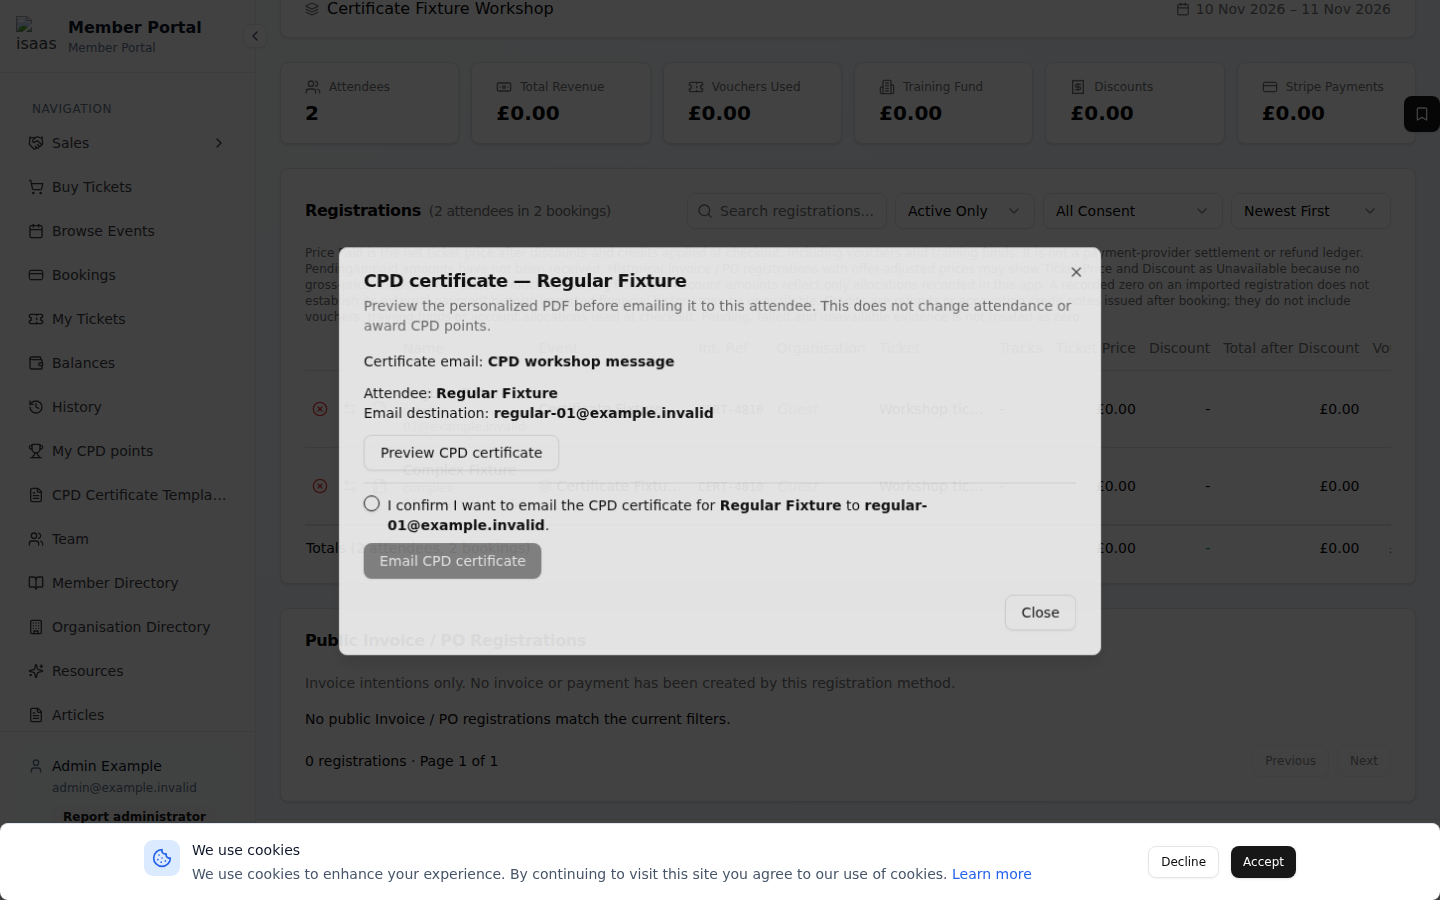
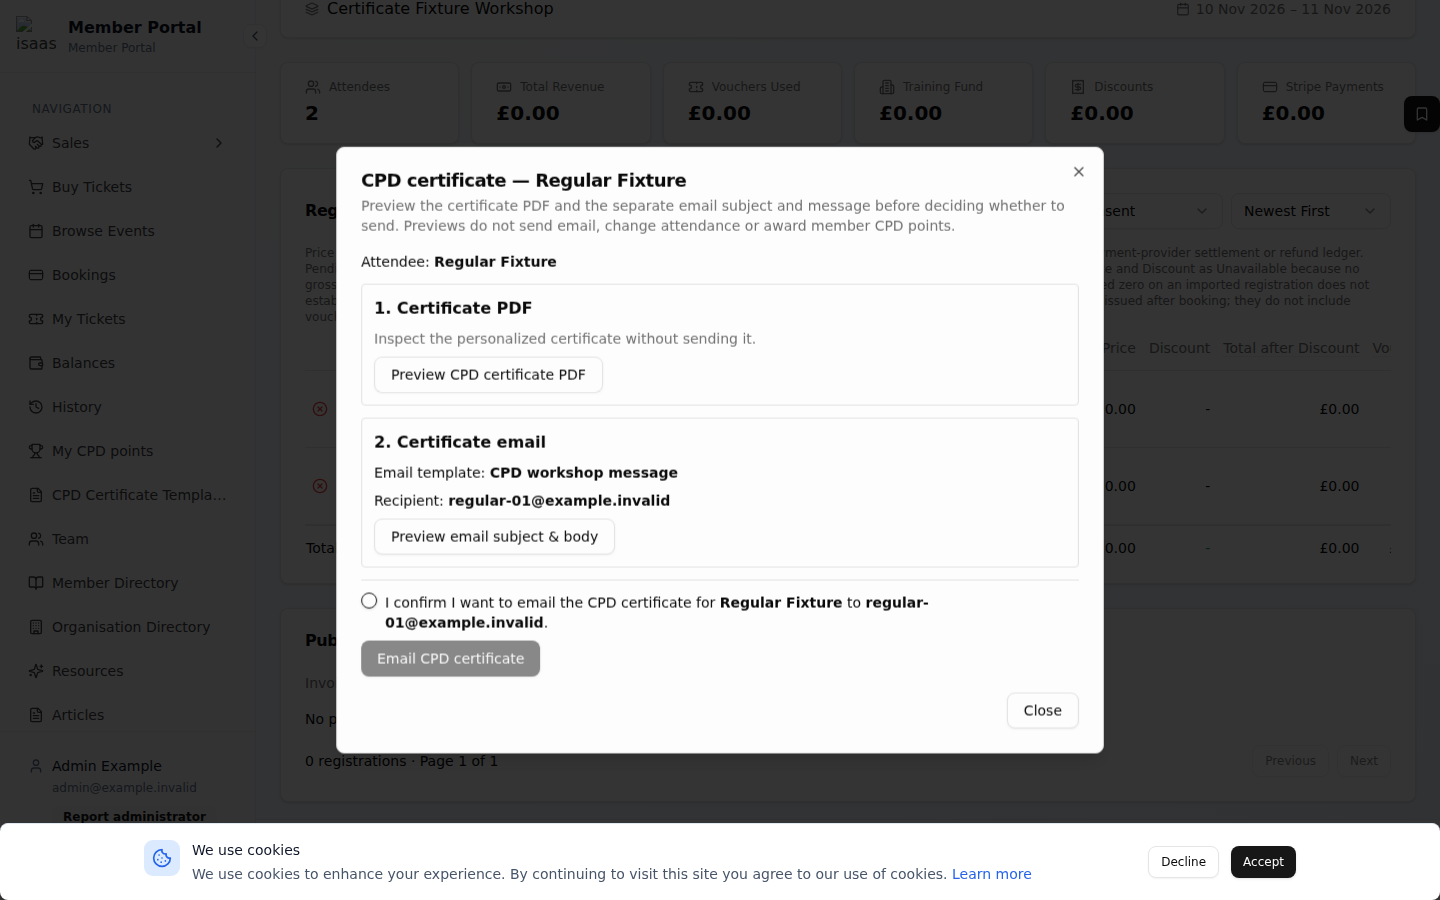
Update attendee CPD certificate generation and UI components
Replit-Commit-Author: Agent

diff --git a/client/src/components/events/AttendeeCpdCertificateDialog.jsx b/client/src/components/events/AttendeeCpdCertificateDialog.jsx
@@ -15,8 +15,8 @@ function describeReason(reason) {
     date_unavailable: "The certificate activity dates are unavailable.",
     cancelled_booking: "Cancelled bookings cannot receive certificates.",
     booking_cancelled: "Cancelled bookings cannot receive certificates.",
-    missing_recipient: "This attendee has no valid email address. Preview is still available.",
-    invalid_recipient: "This attendee has no valid email address. Preview is still available.",
+    missing_recipient: "This attendee has no valid email address. Certificate PDF preview remains available.",
+    invalid_recipient: "This attendee has no valid email address. Certificate PDF preview remains available.",
     email_template_unavailable: "The selected certificate email template is unavailable or deleted. Select an active template or the default email in the event's Certificates settings.",
     email_template_inactive: "The selected certificate email template is inactive. Select an active template or the default email in the event's Certificates settings.",
     email_template_invalid: "The selected certificate email template cannot be used. Update it in Email Templates or select the default email in the event's Certificates settings.",
@@ -257,28 +257,34 @@ export default function AttendeeCpdCertificateDialog({ attendee, bookingSource, 
   const available = metadata?.available === true;
   const canSend = available && metadata?.can_send === true && !!metadata?.fingerprint
     && !["pending", "unknown"].includes(metadata?.latest_delivery?.status);
+  // A pending delivery blocks another send, not inspection of the selected email.
+  const canPreviewEmail = available && metadata?.can_preview_email === true && !!metadata?.fingerprint;
+  const emailPreviewReason = !recipient
+    ? "The attendee has no valid email address. Add a valid address to preview the email."
+    : metadata?.email_reason
+      ? describeReason(metadata.email_reason)
+      : metadata?.send_reason && !["pending", "unknown"].includes(metadata.latest_delivery?.status)
+        ? describeReason(metadata.send_reason)
+        : "The certificate email cannot be previewed with the current settings.";
 
   return (
     <Dialog open={!!attendee} onOpenChange={open => { if (!open && !busy) onClose(); }}>
       <DialogContent className="max-w-3xl max-h-[90vh] overflow-y-auto" data-testid="attendee-certificate-dialog">
         <DialogHeader>
           <DialogTitle>CPD certificate — {name}</DialogTitle>
-          <DialogDescription>Preview or download the personalized PDF before emailing it to this attendee. This does not change attendance or award member CPD points.</DialogDescription>
+          <DialogDescription>Preview the certificate PDF and the separate email subject and message before deciding whether to send. Previews do not send email, change attendance or award member CPD points.</DialogDescription>
         </DialogHeader>
         {loading ? <p role="status" className="flex items-center gap-2"><Loader2 className="h-4 w-4 animate-spin" />Checking certificate settings…</p> : metadata && (
           <div className="space-y-3">
-            <p className="text-sm" data-testid="cpd-email-template-name">
+            {!available && <p className="text-sm" data-testid="cpd-email-template-name">
               Certificate email: <strong>{metadata.email_is_default !== false
                 ? "Default certificate email"
                 : metadata.email_template_name || "Selected template unavailable"}</strong>
-            </p>
-            {metadata.email_selection_missing && <p role="status" className="text-sm text-amber-700">
-              No event-wide certificate email selection is saved. This uses the default email; choose a template in the event Certificates settings and save it before sending.
             </p>}
             {!available && <p role="status" className="text-sm text-amber-700">Preview unavailable: {describeReason(metadata.reason)}</p>}
             {available && (
               <>
-                <p className="text-sm">Attendee: <strong>{name}</strong><br />Email destination: <strong>{recipient || "No valid attendee email"}</strong></p>
+                <p className="text-sm">Attendee: <strong>{name}</strong></p>
                  {metadata.certificate_points_source === "guest_rule" && (
                    <p className="text-sm text-muted-foreground" data-testid="guest-certificate-points">
                      {metadata.certificate_points != null
@@ -287,23 +293,43 @@ export default function AttendeeCpdCertificateDialog({ attendee, bookingSource, 
                      This certificate does not create a member CPD ledger award.
                    </p>
                  )}
-                <Button type="button" variant="outline" disabled={!!busy} onClick={() => action("preview")} data-testid="button-preview-cpd-certificate">
-                  {busy === "preview" && <Loader2 className="h-4 w-4 mr-2 animate-spin" />}Preview CPD certificate
-                </Button>
-                {canSend && <Button type="button" variant="outline" disabled={!!busy} onClick={() => action("email-preview")} data-testid="button-preview-cpd-email">
-                  {busy === "email-preview" && <Loader2 className="h-4 w-4 mr-2 animate-spin" />}Preview certificate email
-                </Button>}
-                {emailPreview && <div className="space-y-2 rounded border p-3" data-testid="cpd-email-preview">
-                  <p className="text-sm"><strong>Subject:</strong> {emailPreview.subject}</p>
-                  <p className="text-sm"><strong>Attachment:</strong> {emailPreview.attachment?.filename} (PDF, {emailPreview.attachment?.bytes} bytes)</p>
-                  <p className="text-xs text-muted-foreground">Survey links are inactive in previews. Sent emails include individual attendee links.</p>
-                  <iframe title="Certificate email HTML preview" sandbox="" referrerPolicy="no-referrer"
-                    srcDoc={emailPreview.html} className="w-full min-h-48 rounded border" />
-                  {emailPreview.text && <details><summary className="text-sm">Plain-text version</summary>
-                    <pre className="whitespace-pre-wrap text-xs">{emailPreview.text}</pre></details>}
-                </div>}
-                {pdfBytes && <CertificatePdfCanvasPreview bytes={pdfBytes} pdfEngine={pdfEngine} />}
-                 {pdfBytes && <Button type="button" variant="outline" disabled={!!busy} onClick={download} data-testid="button-download-cpd-certificate">Download CPD certificate</Button>}
+                <section className="space-y-2 rounded border p-3" aria-label="Certificate PDF preview" data-testid="cpd-certificate-section">
+                  <h3 className="font-semibold">1. Certificate PDF</h3>
+                  <p className="text-sm text-muted-foreground">Inspect the personalized certificate without sending it.</p>
+                  <Button type="button" variant="outline" disabled={!!busy} onClick={() => action("preview")} data-testid="button-preview-cpd-certificate">
+                    {busy === "preview" && <Loader2 className="h-4 w-4 mr-2 animate-spin" />}Preview CPD certificate PDF
+                  </Button>
+                  {pdfBytes && <CertificatePdfCanvasPreview bytes={pdfBytes} pdfEngine={pdfEngine} />}
+                  {pdfBytes && <Button type="button" variant="outline" disabled={!!busy} onClick={download} data-testid="button-download-cpd-certificate">Download CPD certificate</Button>}
+                </section>
+                <section className="space-y-2 rounded border p-3" aria-label="Certificate email preview" data-testid="cpd-email-section">
+                  <h3 className="font-semibold">2. Certificate email</h3>
+                  <p className="text-sm" data-testid="cpd-email-template-name">
+                    Email template: <strong>{metadata.email_is_default !== false
+                      ? "Default certificate email"
+                      : metadata.email_template_name || "Selected template unavailable"}</strong>
+                  </p>
+                  <p className="text-sm">Recipient: <strong>{recipient || "No valid attendee email"}</strong></p>
+                  {metadata.email_selection_missing && <p role="status" className="text-sm text-amber-700">
+                    No event-wide certificate email selection is saved. This uses the default email; choose a template in the event Certificates settings and save it before sending.
+                  </p>}
+                  <Button type="button" variant="outline" disabled={!!busy || !canPreviewEmail}
+                    onClick={() => action("email-preview")} data-testid="button-preview-cpd-email">
+                    {busy === "email-preview" && <Loader2 className="h-4 w-4 mr-2 animate-spin" />}Preview email subject &amp; body
+                  </Button>
+                  {!canPreviewEmail && <p role="status" className="text-sm text-amber-700">Email preview unavailable: {emailPreviewReason}</p>}
+                  {emailPreview && <div className="space-y-2 rounded border p-3" data-testid="cpd-email-preview">
+                    <p className="text-sm"><strong>To:</strong> {emailPreview.recipient}</p>
+                    <p className="text-sm"><strong>Subject:</strong> {emailPreview.subject}</p>
+                    <p className="text-sm"><strong>Body:</strong></p>
+                    <iframe title="Certificate email HTML preview" sandbox="" referrerPolicy="no-referrer"
+                      srcDoc={emailPreview.html} className="w-full min-h-48 rounded border" />
+                    <p className="text-sm"><strong>Attachment:</strong> {emailPreview.attachment?.filename} (PDF, {emailPreview.attachment?.bytes} bytes)</p>
+                    <p className="text-xs text-muted-foreground">Survey links are inactive in previews. Sent emails include individual attendee links.</p>
+                    {emailPreview.text && <details><summary className="text-sm">Plain-text version</summary>
+                      <pre className="whitespace-pre-wrap text-xs">{emailPreview.text}</pre></details>}
+                  </div>}
+                </section>
                 {sent ? (
                   <div className="space-y-2">
                     <p role="status" className="text-sm">Certificate email request accepted for {recipient}. This does not confirm inbox delivery.</p>

diff --git a/client/src/components/events/AttendeeCpdCertificateDialog.test.jsx b/client/src/components/events/AttendeeCpdCertificateDialog.test.jsx
@@ -25,7 +25,7 @@ const { createRoot } = await import("react-dom/client");
 const { default: CertificateDialog, CertificatePdfCanvasPreview } = await import("./AttendeeCpdCertificateDialog.jsx");
 
 const attendee = { id: "booking-1", attendee_first_name: "Ari", attendee_last_name: "Lee" };
-const details = { attendee_name: "Ari Lee", recipient: "ari@example.test", available: true, can_send: true, fingerprint: "snapshot-a", latest_delivery: null };
+const details = { attendee_name: "Ari Lee", recipient: "ari@example.test", available: true, can_preview_email: true, can_send: true, fingerprint: "snapshot-a", latest_delivery: null };
 const json = (data, status = 200) => new Response(JSON.stringify(data), { status, headers: { "Content-Type": "application/json" } });
 const tick = () => act(async () => { await new Promise(resolve => setTimeout(resolve, 10)); });
 const click = async selector => act(async () => document.querySelector(selector).click());
@@ -69,7 +69,7 @@ test("email preview shows selected subject, safe HTML and matching PDF attachmen
     requests.push(body);
     if (body.action !== "email-preview") throw new Error("Preview cannot send");
     return Promise.resolve(json({
-      subject: "Your certificate", html: "<p>Survey list preview</p>",
+      recipient: "ari@example.test", subject: "Your certificate", html: "<p>Survey list preview</p>",
       text: "Survey list preview", survey_links_inactive: true,
       attachment: { filename: "cpd-certificate.pdf", bytes: 432, content_type: "application/pdf" },
     }));
@@ -77,13 +77,20 @@ test("email preview shows selected subject, safe HTML and matching PDF attachmen
   const cleanup = await mount();
   try {
     await tick();
+    assert.ok(document.querySelector('[data-testid="cpd-certificate-section"]'));
+    assert.ok(document.querySelector('[data-testid="cpd-email-section"]'));
+    assert.ok(document.querySelector('[data-testid="button-preview-cpd-certificate"]'));
+    assert.equal(document.querySelector('[data-testid="button-preview-cpd-email"]').disabled, false);
     await click('[data-testid="button-preview-cpd-email"]');
     await tick();
     assert.deepEqual(requests.map(request => request.action), ["email-preview"]);
     assert.match(document.querySelector('[data-testid="cpd-email-preview"]').textContent, /Your certificate/);
+    assert.match(document.querySelector('[data-testid="cpd-email-preview"]').textContent, /To: ari@example.test/);
+    assert.match(document.querySelector('[data-testid="cpd-email-preview"]').textContent, /Body:/);
     assert.match(document.querySelector('[data-testid="cpd-email-preview"]').textContent, /cpd-certificate.pdf/);
     assert.match(document.querySelector('[data-testid="cpd-email-preview"]').textContent, /Plain-text version/);
     assert.equal(document.querySelector('[data-testid="cpd-email-preview"] iframe').getAttribute("sandbox"), "");
+    assert.equal(document.querySelector('[data-testid="cpd-email-preview"] iframe').getAttribute("srcdoc"), "<p>Survey list preview</p>");
     assert.match(document.body.textContent, /Autumn Meeting 2026 CPD/);
   } finally {
     await cleanup();
@@ -278,10 +285,12 @@ test("email requires explicit recipient confirmation; retry retains ID, delibera
 });
 
 test("preview remains available without a valid recipient, but sending is disabled with reason", async () => {
-  globalThis.fetch = () => Promise.resolve(json({ ...details, recipient: null, can_send: false, send_reason: "missing_recipient" }));
+  globalThis.fetch = () => Promise.resolve(json({ ...details, recipient: null, can_preview_email: false, can_send: false, send_reason: "missing_recipient" }));
   const cleanup = await mount();
   await tick();
   assert.ok(document.querySelector('[data-testid="button-preview-cpd-certificate"]'));
+  assert.equal(document.querySelector('[data-testid="button-preview-cpd-email"]').disabled, true);
+  assert.match(document.body.textContent, /Email preview unavailable:.*valid email address/i);
   assert.equal(document.querySelector('[data-testid="button-email-cpd-certificate"]'), null);
   assert.match(document.body.textContent, /no valid email address/i);
   await cleanup();
@@ -298,6 +307,7 @@ test("an unknown provider outcome disables sending instead of offering a blind r
   await tick();
   assert.match(document.body.textContent, /Provider outcome unknown/);
   assert.equal(document.querySelector('[data-testid="button-email-cpd-certificate"]'), null);
+  assert.equal(document.querySelector('[data-testid="button-preview-cpd-email"]').disabled, false);
   assert.match(document.body.textContent, /Reconcile it before sending again/);
   await cleanup();
 });
@@ -305,15 +315,45 @@ test("an unknown provider outcome disables sending instead of offering a blind r
 test("selected certificate email is named in consent and unavailable email blocks send but not PDF preview", async () => {
   globalThis.fetch = () => Promise.resolve(json({
     ...details, email_is_default: false, email_template_id: "old-email",
-    email_template_name: "Retired course email", can_send: false, email_reason: "email_template_inactive",
+    email_template_name: "Retired course email", can_preview_email: false, can_send: false, email_reason: "email_template_inactive",
   }));
   const cleanup = await mount();
   await tick();
   assert.match(document.querySelector('[data-testid="cpd-email-template-name"]').textContent, /Retired course email/);
   assert.match(document.body.textContent, /selected certificate email template is inactive/);
   assert.ok(document.querySelector('[data-testid="button-preview-cpd-certificate"]'));
+  assert.equal(document.querySelector('[data-testid="button-preview-cpd-email"]').disabled, true);
   assert.equal(document.querySelector('[data-testid="button-email-cpd-certificate"]'), null);
   await cleanup();
+});
+
+test("pending delivery blocks another send but not a no-send email preview", async () => {
+  const calls = [];
+  globalThis.fetch = (_url, options) => {
+    if (!options?.method) return Promise.resolve(json({
+      ...details, can_send: false, send_reason: "A previous send is pending",
+      latest_delivery: { status: "pending" },
+    }));
+    calls.push(JSON.parse(options.body));
+    return Promise.resolve(json({
+      recipient: details.recipient, subject: "Pending delivery preview", html: "<p>Current email body</p>",
+      attachment: { filename: "cpd-certificate.pdf", bytes: 123 },
+    }));
+  };
+  const cleanup = await mount();
+  try {
+    await tick();
+    assert.equal(document.querySelector('[data-testid="button-email-cpd-certificate"]'), null);
+    assert.equal(document.querySelector('[data-testid="button-preview-cpd-email"]').disabled, false);
+    await click('[data-testid="button-preview-cpd-email"]');
+    await tick();
+    assert.deepEqual(calls.map(call => call.action), ["email-preview"]);
+    assert.equal(calls[0].confirmed, undefined);
+    assert.equal(calls[0].request_id, undefined);
+    assert.match(document.querySelector('[data-testid="cpd-email-preview"]').textContent, /Pending delivery preview/);
+  } finally {
+    await cleanup();
+  }
 });
 
 test("changing template content or selection forces new explicit consent with the new fingerprint", async () => {

diff --git a/api/reports/attendee-cpd-certificate.js b/api/reports/attendee-cpd-certificate.js
@@ -63,6 +63,7 @@ export async function handleAttendeeCertificate(req, res, deps = {}) {
       email_is_default: resolved.email_is_default,
       email_selection_missing: resolved.email_selection_missing === true,
       email_reason: resolved.email_reason || null,
+      can_preview_email: resolved.can_send === true,
       can_send: resolved.can_send && !blocked,
       send_reason: blocked ? 'A previous send is pending or its provider outcome is unknown. Reconcile it before sending again.' : resolved.send_reason || resolved.reason,
       latest_delivery: publicDelivery(latest),
@@ -83,6 +84,7 @@ export async function handleAttendeeCertificate(req, res, deps = {}) {
       if (!resolved.can_send) return res.status(409).json({ error: resolved.send_reason });
       const pdf = await render(db, resolved);
       return res.status(200).json({
+        recipient: resolved.recipient,
         subject: resolved.email_message.subject, html: resolved.email_message.html,
         text: resolved.email_message.text || null,
         attachment: { filename: 'cpd-certificate.pdf', content_type: 'application/pdf',
